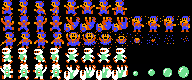
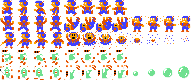
Agregue sprites del guardia

diff --git a/proyecto/src/LodeRunner/PersonajeLodeRunner.java b/proyecto/src/LodeRunner/PersonajeLodeRunner.java
@@ -3,6 +3,7 @@ package LodeRunner;
 import motor.Entidad;
 
 import java.awt.*;
+import java.awt.image.BufferedImage;
 import java.util.HashMap;
 
 public abstract class PersonajeLodeRunner extends Entidad{
@@ -41,6 +42,11 @@ class Guardia extends PersonajeLodeRunner{
     private Oro oroGuardado;
     private boolean persiguiendo;
     private boolean heroeArriba;
+    //"reloj" para frenar la animacion
+    private int contadorTicks = 0;
+    private int frameActual = 1;
+    private final int VELOCIDAD_ANIMACION = 10;
+    private String estadoActual = "corriendo";
 
     public Guardia(int x, int y, int ancho, int alto, Escenario escenario){
         super(x, y, ancho, alto, escenario);
@@ -85,8 +91,32 @@ class Guardia extends PersonajeLodeRunner{
     }
     @Override
     public void dibujar(Graphics2D g){
-        g.setColor(Color.BLUE);
-        g.fillRect(this.x, this.y, this.ancho, this.alto);
+        String claveAnimacion = estadoActual + frameActual;
+        GestorRecursos gestor = new GestorRecursos();
+        BufferedImage imagenActual = (BufferedImage) gestor.getImgGuardia().get(claveAnimacion);
+
+        if (imagenActual != null){
+            if (estadoActual.equals("corriendo") && direccion == 0){ //dibujamos la imagen mirando a la izquierda
+                g.drawImage(imagenActual, x, y, 32, 32, null);
+            }
+            else if (estadoActual.equals("corriendo") && direccion == 1){
+                g.drawImage(imagenActual, x, y, -32, 32, null);
+            }
+            if (estadoActual.equals("barra") && direccion == 0){
+                g.drawImage(imagenActual, x, y, 32, 32, null);
+            }
+            else if (estadoActual.equals("barra") && direccion == 1){
+                g.drawImage(imagenActual, x, y, -32, 32, null);
+            }
+            else if (estadoActual.equals("escalera")){
+                g.drawImage(imagenActual, x, y, 32, 32, null);
+            }
+            else if (estadoActual.equals("cayendo")){
+                g.drawImage(imagenActual, x, y, 32, 32, null);
+            }
+        }else{
+            System.out.println("El sistema no encontro la imagen de: " + claveAnimacion);
+        }
     }
     public void perseguir(Heroe heroe){
         double base = (heroe.getX() + heroe.getAncho()/2) - (this.x + this.ancho/2);
@@ -129,9 +159,22 @@ class Guardia extends PersonajeLodeRunner{
             moverAleatoriamente();
         }
     }
+    //Metodo para actualizar la animacion del guardia
+    public void actualizarAnimacion(){
+        //sumamos 1 al contador de ticks por cada tick que pase
+        contadorTicks++;
+        if (contadorTicks >= VELOCIDAD_ANIMACION){
+            contadorTicks = 0;
+            frameActual++;
+        }
+        if (frameActual > 4) //tenemos 4 frames por animacion
+            frameActual = 1;
+    }
+
     public void mover(){
         boolean tienePiso = detectarColision();
         if (!tienePiso && !enEscalera && !colgadoDeBarra){
+            estadoActual = "cayendo";
             aplicarGravedad();
             return;
         }
@@ -156,14 +199,16 @@ class Guardia extends PersonajeLodeRunner{
                         this.y = ((this.y + 16) / 32) * 32; //alinear el eje y
                         enEscalera = false;
                         colgadoDeBarra = true;
+                        estadoActual = "barra";
                     }
                     else{
+                        estadoActual = "corriendo";
                         enEscalera = false;
                         colgadoDeBarra = false;
                     }
                 }
                 else{
-                    direccion = 1; //cambiar de direccion a la derecha
+                    direccion = 1;//cambiar de direccion a la derecha
                 }
                 break;
             case 1:
@@ -179,8 +224,10 @@ class Guardia extends PersonajeLodeRunner{
                         this.y = ((this.y + 16) / 32) * 32; //alinear el eje y
                         colgadoDeBarra = true;
                         enEscalera = false;
+                        estadoActual = "barra";
                     }
                     else{
+                        estadoActual = "corriendo";
                         enEscalera = false;
                         colgadoDeBarra = false;
                     }
@@ -191,12 +238,14 @@ class Guardia extends PersonajeLodeRunner{
                 break;
             case 2:
                 if (enEscalera){
+                    estadoActual = "escalera";
                     this.x = ((this.x + 16)/32)*32; //para que no desfase de la escalera
                     this.y -= 2;
                 }
                 break;
             case 3:
-                if (enEscalera || colgadoDeBarra){
+                if (enEscalera){
+                    estadoActual = "escalera";
                     this.x = ((this.x + 16)/32)*32;
                     this.y += 2;
                     int filaPies = (this.y + this.alto - 1) / 32;
@@ -210,6 +259,7 @@ class Guardia extends PersonajeLodeRunner{
                     }
                 }
                 else{
+                    estadoActual = "cayendo";
                     aplicarGravedad();
                 }
                 break;

diff --git a/proyecto/src/LodeRunner/GestorRecursos.java b/proyecto/src/LodeRunner/GestorRecursos.java
@@ -6,7 +6,7 @@ import java.io.File;
 import java.io.IOException;
 import java.util.HashMap;
 
-public class GestorRecursos {
+public final class GestorRecursos {
     private HashMap<String, BufferedImage> originalHeroe;
     private HashMap<String, BufferedImage> imgGuardia;
 
@@ -14,8 +14,8 @@ public class GestorRecursos {
         imgGuardia = new HashMap<>();
         originalHeroe = new HashMap<>();
         try{
-            BufferedImage hojaSprites = ImageIO.read(getClass().getResourceAsStream("/resources/img/loderunner/personajes.png"));
-            for (int i = 0; i < 3; i++){
+            BufferedImage hojaSprites = ImageIO.read(getClass().getResourceAsStream("/img/loderunner/personajes.png"));
+            for (int i = 0; i < 4; i++){
                 //animaciones guardia corriendo
                 imgGuardia.put("corriendo" + (i + 1), hojaSprites.getSubimage(16*i, 3*16, 16, 16));
                 //animaciones guardia escalera
@@ -31,5 +31,8 @@ public class GestorRecursos {
     }
     public void cargarSkin(String nombreSkin){
 
+    }
+    public HashMap getImgGuardia(){
+        return imgGuardia;
     }
 }

diff --git a/proyecto/src/LodeRunner/LodeRunnerMain.java b/proyecto/src/LodeRunner/LodeRunnerMain.java
@@ -275,7 +275,7 @@ public class LodeRunnerMain extends Videojuego implements KeyListener{
                 g2.setColor(Color.RED); //Heroe de rojo
                 heroe.dibujar(g2);
                 for (Guardia guardia : guardias){
-                    g2.setColor(Color.BLUE);
+                    guardia.actualizarAnimacion();
                     guardia.dibujar(g2);
                 }
                 for (Oro o : lingotes){
